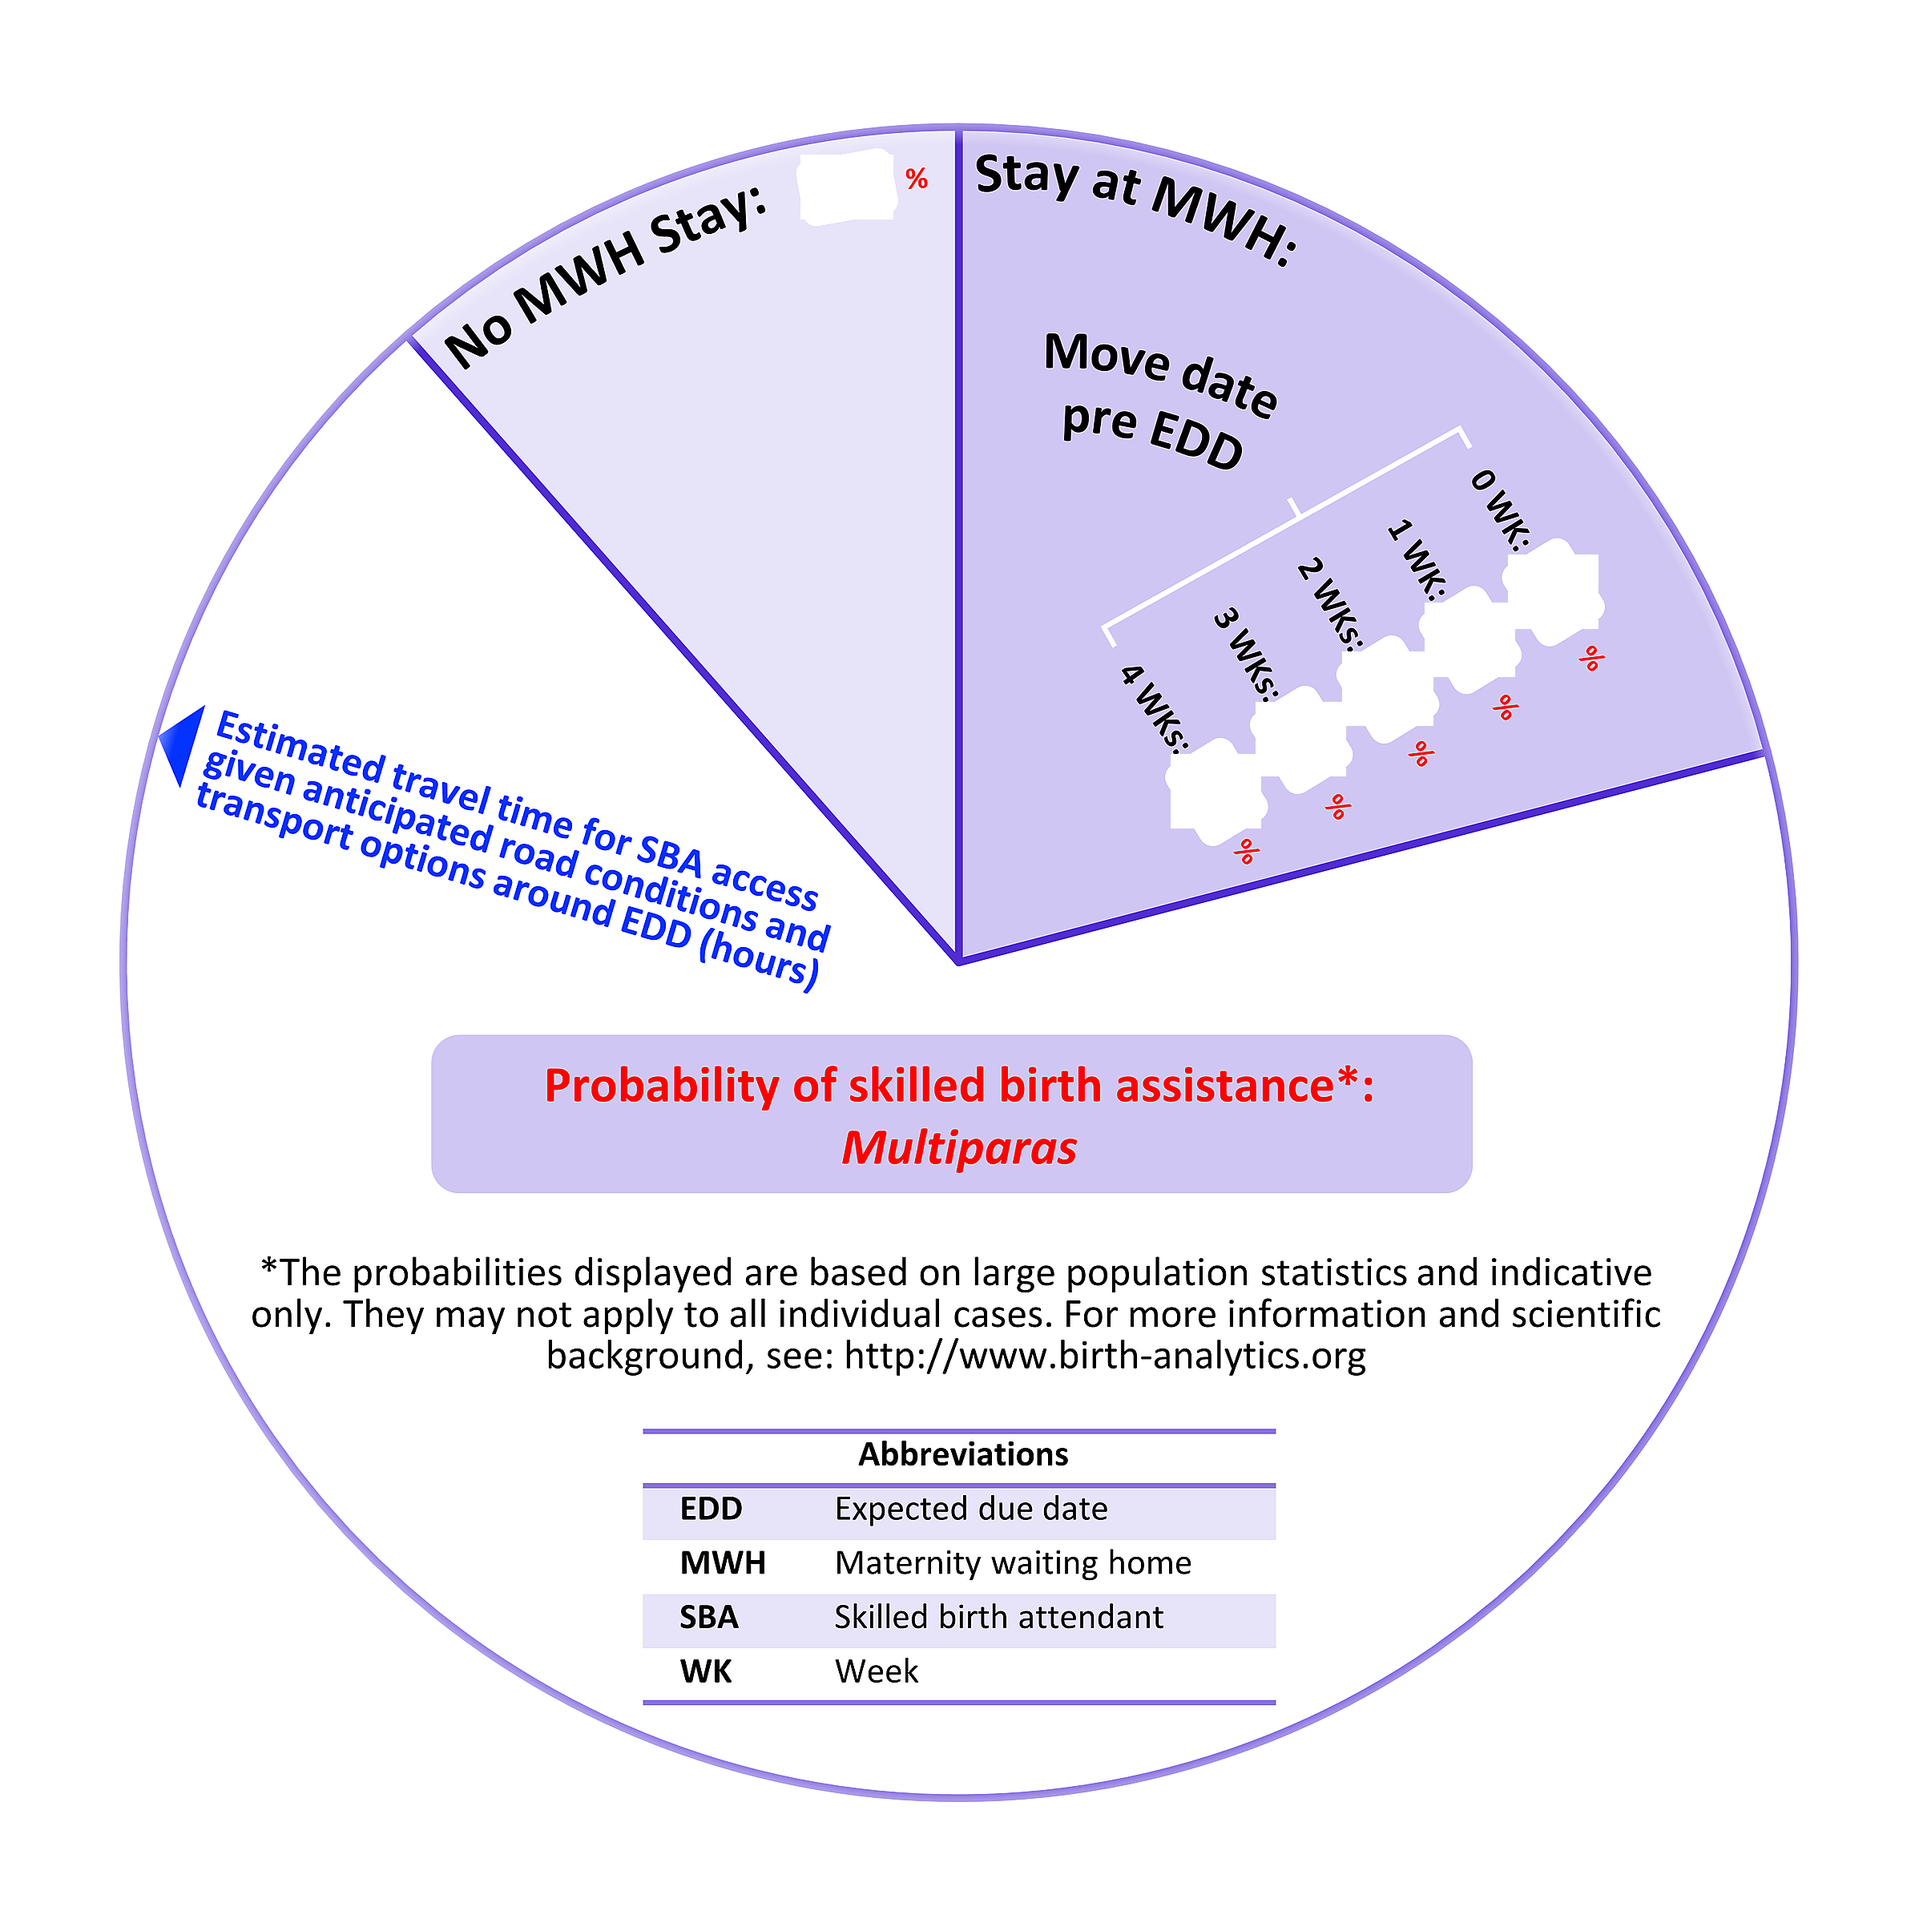
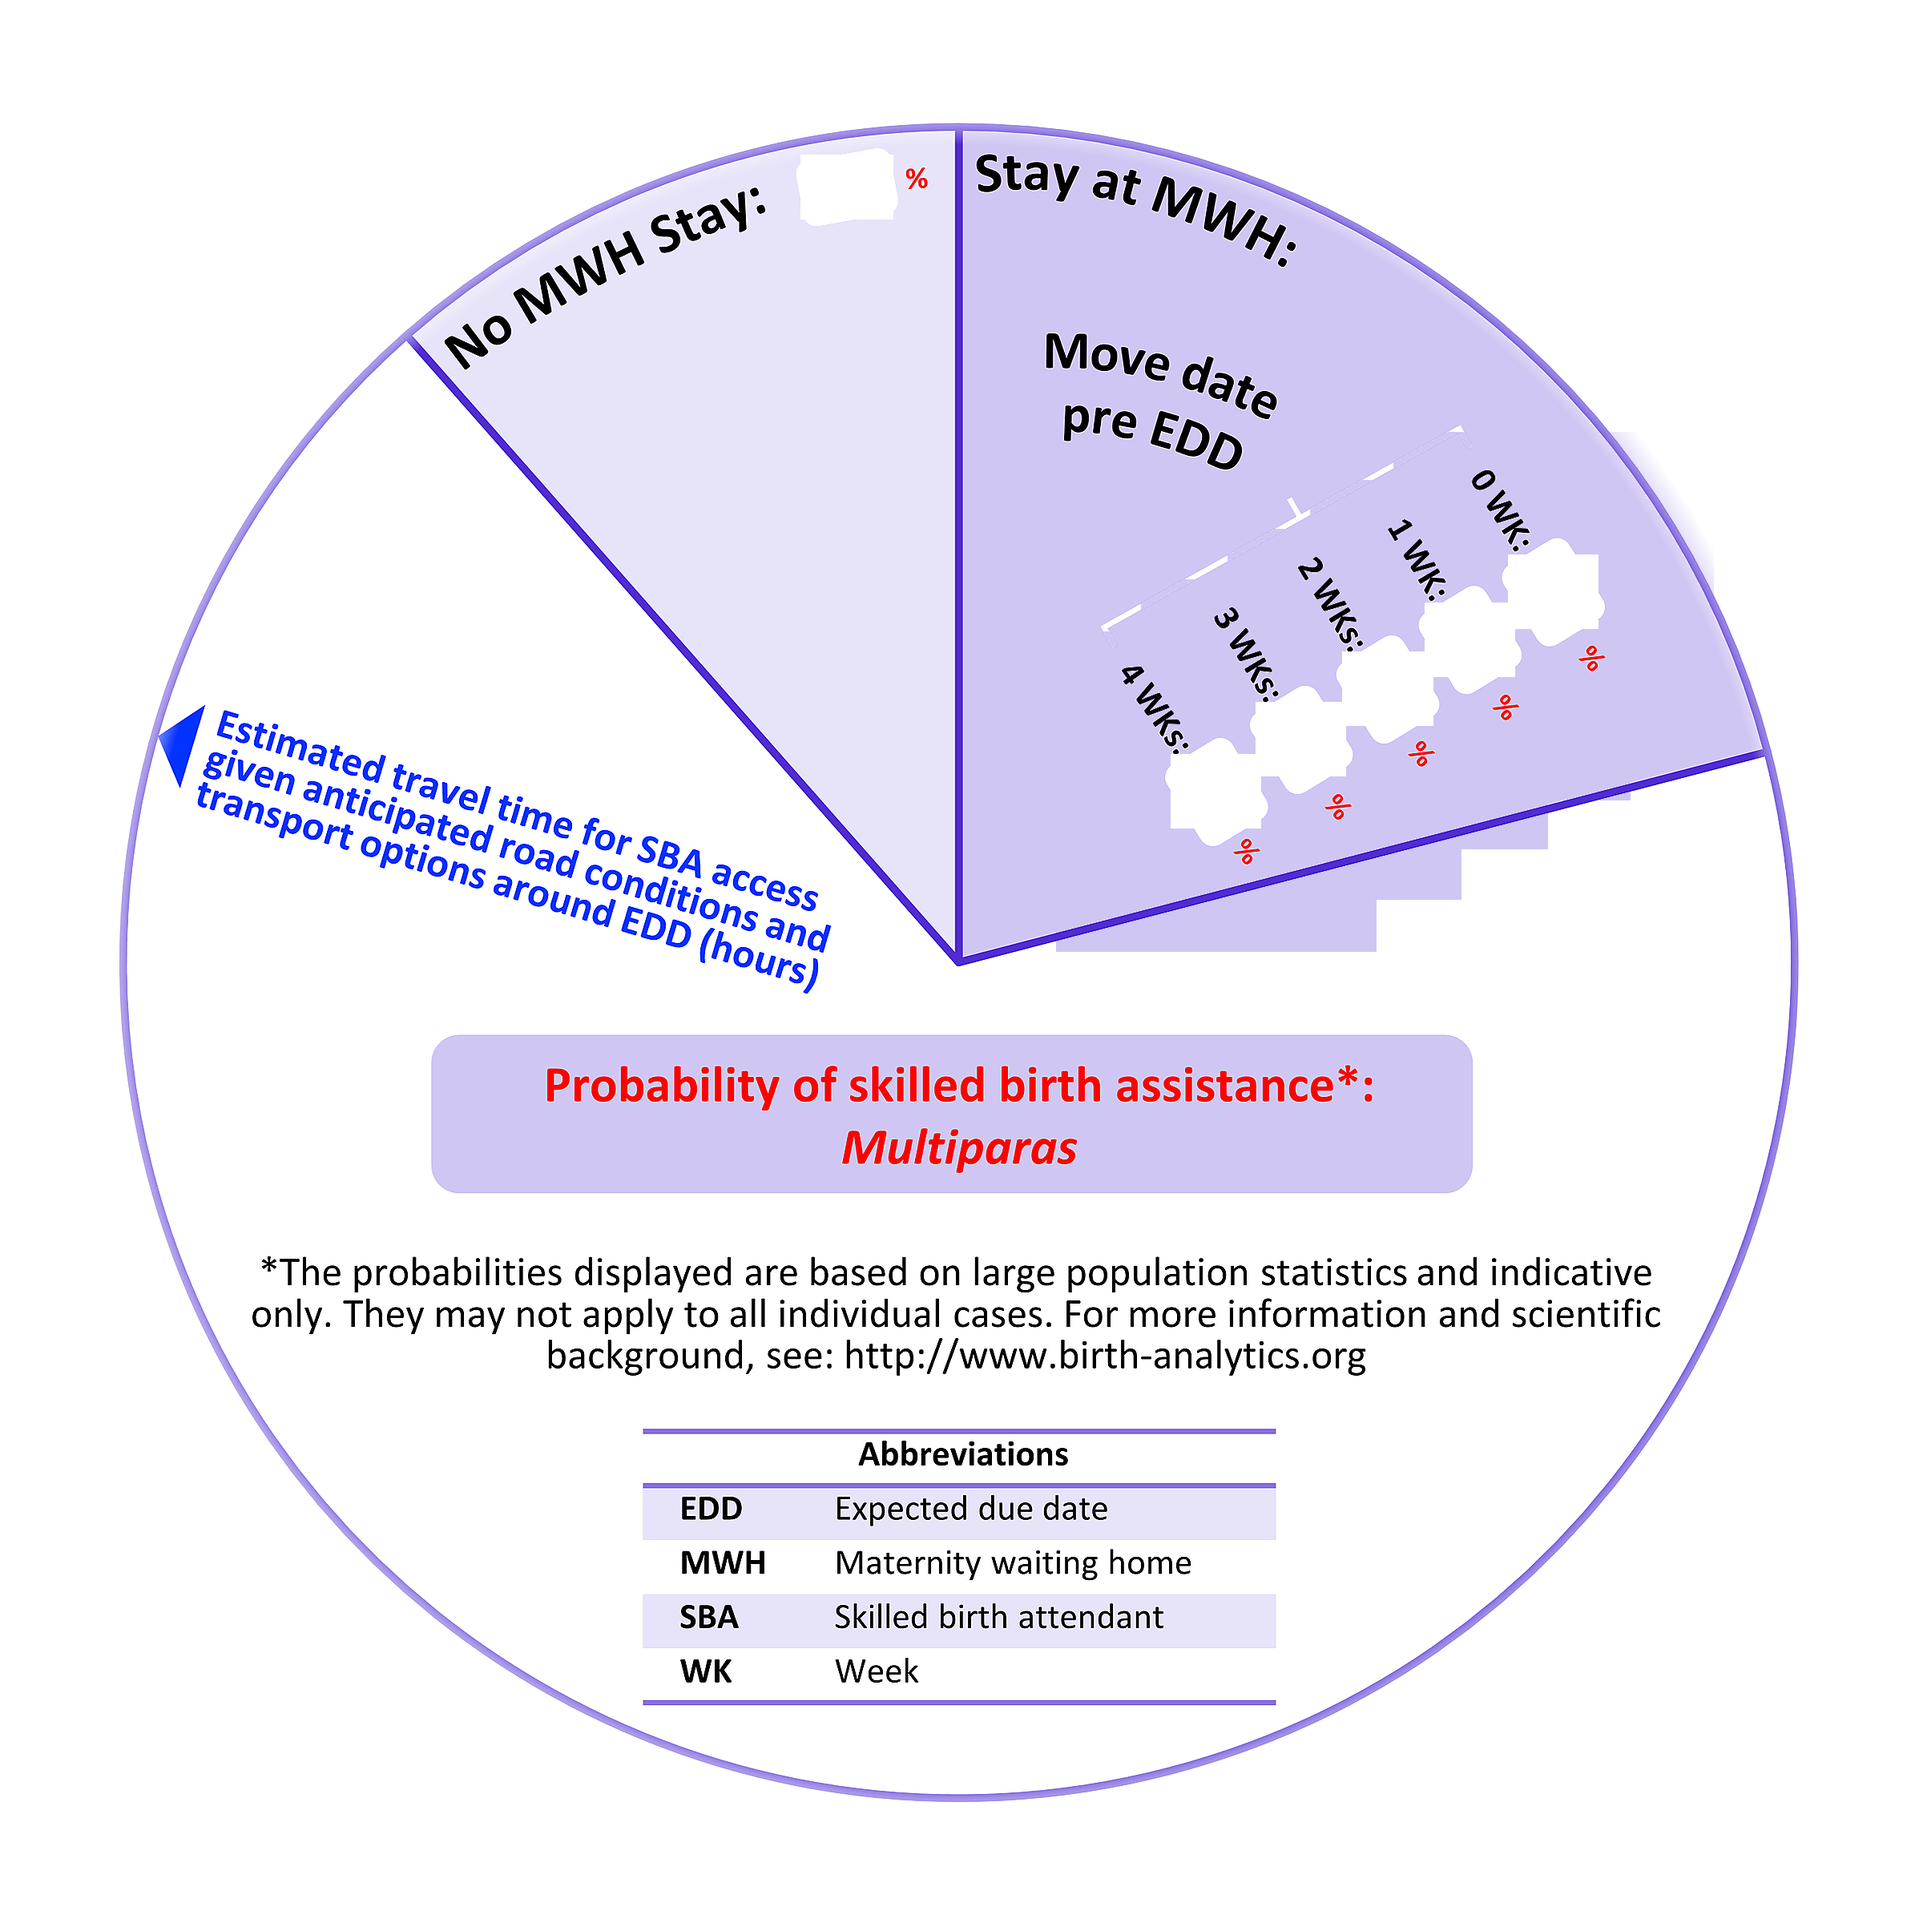
Remove white fills near holes and clean Layer 2 data zone grid
- Layer 1: replace white PPTX shape backgrounds near holes 1-5 with
  disc background color (radius=200, sampled from r=210-250 ring),
  keeping pixels opaque so Layer 2 dividers stay covered (45K px/image)
- Layer 2: replace all near-white pixels in data zone (r=320-920) with
  disc background color, eliminating sector/row divider lines that were
  visible through the Layer 1 wedge (219K px/image)

Changed region(s): [[0.5312, 0.4062, 0.8125, 0.5]]

diff --git a/scripts/fix_layer1_white_cleanup.py b/scripts/fix_layer1_white_cleanup.py
@@ -1,0 +1,112 @@
+"""
+Replace white PPTX shape backgrounds near holes 1-5 in Layer 1 with disc color.
+
+Making the white shapes transparent exposes Layer 2's sector divider lines behind
+them. Instead, we REPLACE white pixels with the disc's light-blue background color
+(sampled from nearby non-white opaque disc pixels) so they remain opaque and
+continue to cover Layer 2, but now blend visually with the disc instead of showing
+as white boxes.
+
+Radius=200 covers all white shape backgrounds (original 80px cleanup was too small).
+Disc background is ~184,219,241 — well below the >240 white threshold.
+"""
+import os
+import numpy as np
+from PIL import Image
+
+OUT_W = OUT_H = 2400
+EXPORT_SIZE   = 7200
+SCALE         = EXPORT_SIZE / 1800
+SX = int(round(515 * SCALE))
+SY = int(round(217 * SCALE))
+SW = int(round(694 * SCALE))
+SH = int(round(1234 * SCALE))
+
+HOLE_SHAPES_FRAC = [
+    (0.4560, 0.1874, 0.0181, 0.0219),
+    (0.5300, 0.4029, 0.0176, 0.0254),
+    (0.5470, 0.3843, 0.0176, 0.0254),
+    (0.5644, 0.3663, 0.0176, 0.0254),
+    (0.5809, 0.3487, 0.0176, 0.0254),
+    (0.5976, 0.3317, 0.0176, 0.0254),
+]
+
+def frac_to_px(cx_frac, cy_frac, w_frac, h_frac):
+    cx_exp = cx_frac * EXPORT_SIZE;  cy_exp = cy_frac * EXPORT_SIZE
+    w_exp  = w_frac  * EXPORT_SIZE;  h_exp  = h_frac  * EXPORT_SIZE
+    cx_out = (cx_exp - SX) * (OUT_W / SW)
+    cy_out = (cy_exp - SY) * (OUT_H / SH)
+    w_out  = w_exp  * (OUT_W / SW)
+    h_out  = h_exp  * (OUT_H / SH)
+    return cx_out, cy_out, w_out, h_out
+
+HOLES = [frac_to_px(*h) for h in HOLE_SHAPES_FRAC]
+
+RADIUS = 200
+
+OUT_DIR = r'c:\Users\ydu\Documents\GitHub\yuhangdu-edu.github.io\assets\images\sba-wheel'
+
+for fname in ['layer1_nuli.png', 'layer1_multi.png']:
+    path = os.path.join(OUT_DIR, fname)
+    img  = Image.open(path).convert('RGBA')
+    arr  = np.array(img)
+    H, W = arr.shape[:2]
+    total = 0
+
+    print(f"\nProcessing {fname} ...")
+
+    for i, (cx, cy, w_l1, h_l1) in enumerate(HOLES):
+        if i == 0:
+            continue   # hole 0 is in the white disc sector; skip
+
+        cxi, cyi = int(round(cx)), int(round(cy))
+        sx0 = max(0, cxi - RADIUS);  sx1 = min(W, cxi + RADIUS)
+        sy0 = max(0, cyi - RADIUS);  sy1 = min(H, cyi + RADIUS)
+        reg = arr[sy0:sy1, sx0:sx1, :]
+
+        # Identify white pixels to replace
+        is_white = (
+            (reg[:, :, 0].astype(int) > 240) &
+            (reg[:, :, 1].astype(int) > 240) &
+            (reg[:, :, 2].astype(int) > 240) &
+            (reg[:, :, 3]             > 0)
+        )
+
+        # Sample disc background: median of non-white, opaque, non-transparent pixels
+        # Use a ring further out (radius 220-280) to avoid the white-shape zone
+        sr = 250
+        sx0s = max(0, cxi - sr); sx1s = min(W, cxi + sr)
+        sy0s = max(0, cyi - sr); sy1s = min(H, cyi + sr)
+        sample_reg = arr[sy0s:sy1s, sx0s:sx1s, :]
+        ys_s, xs_s = np.mgrid[sy0s:sy1s, sx0s:sx1s]
+        dist_s = np.sqrt((xs_s - cx)**2 + (ys_s - cy)**2)
+        disc_mask = (
+            (dist_s >= 210) & (dist_s < sr) &
+            (sample_reg[:, :, 3] > 200) &
+            ~((sample_reg[:, :, 0] > 240) &
+              (sample_reg[:, :, 1] > 240) &
+              (sample_reg[:, :, 2] > 240))
+        )
+        if disc_mask.sum() >= 10:
+            disc_r = int(np.median(sample_reg[:, :, 0][disc_mask]))
+            disc_g = int(np.median(sample_reg[:, :, 1][disc_mask]))
+            disc_b = int(np.median(sample_reg[:, :, 2][disc_mask]))
+        else:
+            disc_r, disc_g, disc_b = 184, 219, 241   # fallback
+
+        print(f"  Hole {i}: disc color sampled = ({disc_r},{disc_g},{disc_b}), "
+              f"replacing {is_white.sum()} white px")
+
+        # Replace white → disc color (keep alpha=255 so Layer 2 stays covered)
+        reg[is_white, 0] = disc_r
+        reg[is_white, 1] = disc_g
+        reg[is_white, 2] = disc_b
+        # alpha stays 255 — do NOT set to 0
+        arr[sy0:sy1, sx0:sx1, :] = reg
+        total += int(is_white.sum())
+
+    print(f"  Total replaced: {total:,}")
+    Image.fromarray(arr, 'RGBA').save(path, 'PNG', optimize=False)
+    print(f"  Saved {path} ({os.path.getsize(path) // 1024} KB)")
+
+print("\nDone.")
